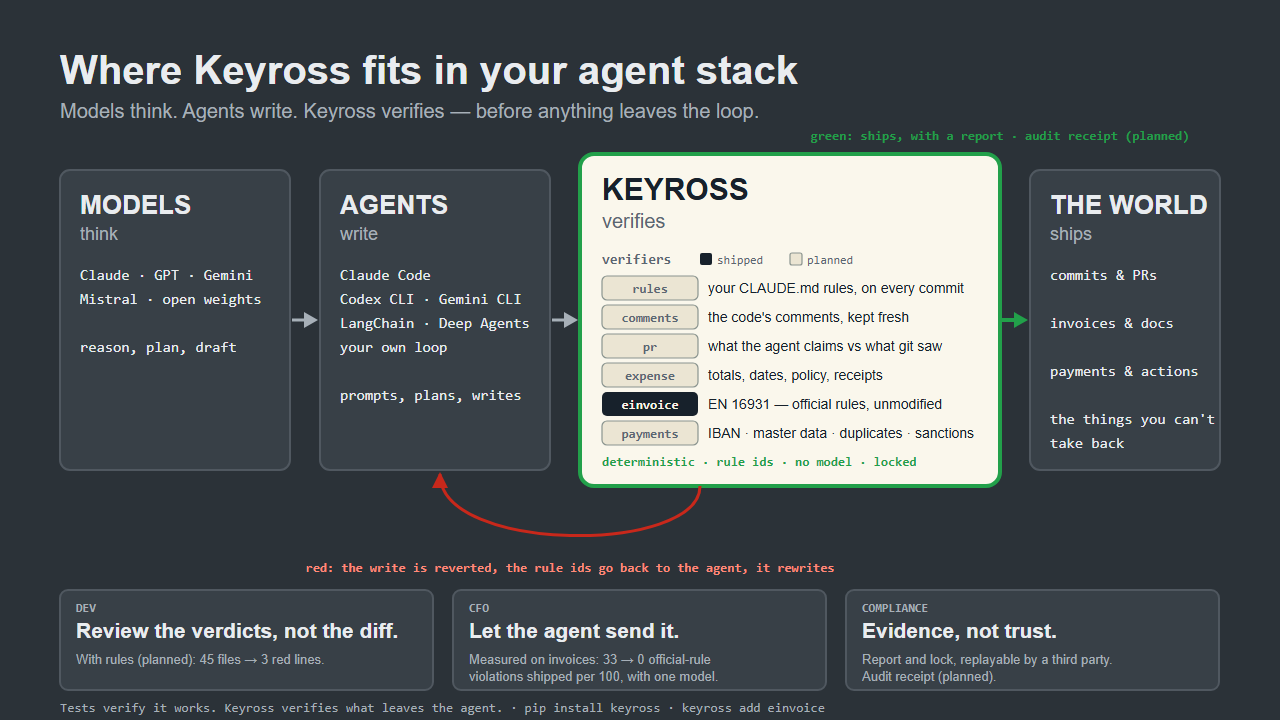
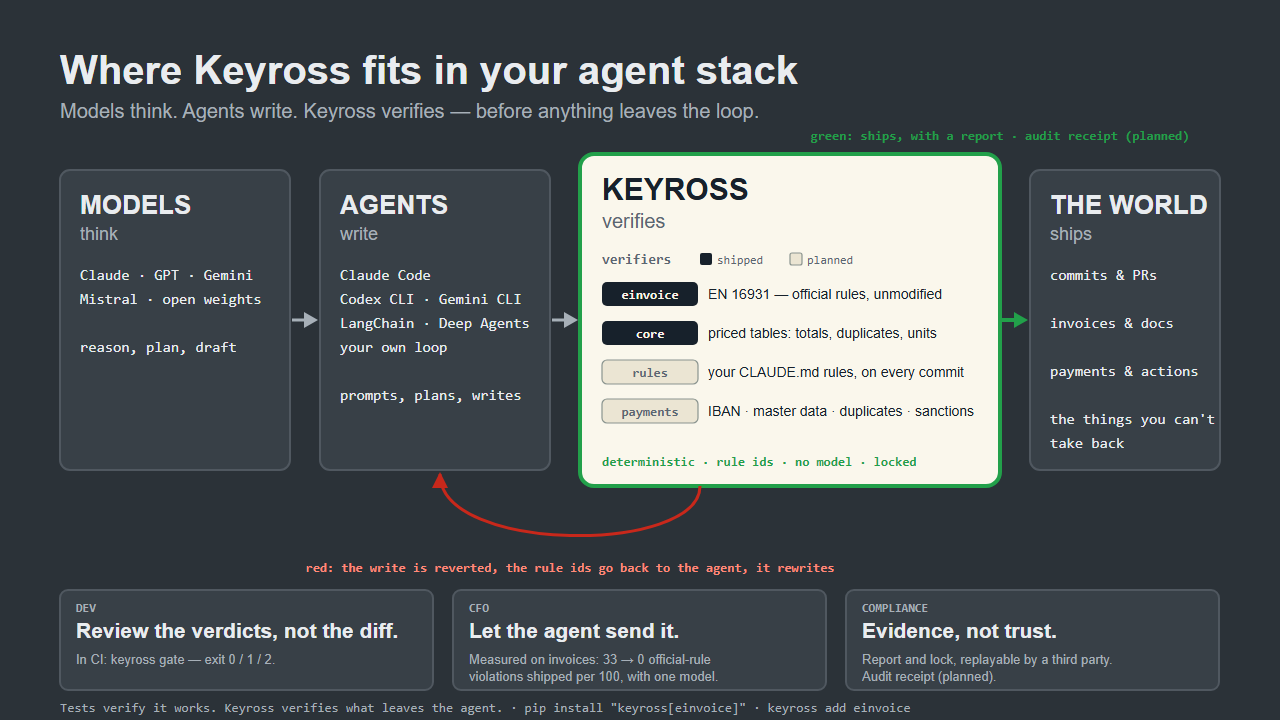
docs: one truth on the front page — the shelf, the figures, the roadmap
From a review of the 0.1.2 front page.

The stack diagram (SVG and both PNGs) shows the README's shelf: einvoice
and core shipped, rules and payments planned; comments, pr and expense,
on no roadmap, leave it. The DEV line no longer quotes a figure from a
gauge that does not exist yet (45 files, 3 red lines): it says what runs
today, keyross gate in CI. The footer installs keyross[einvoice], as the
README does.

tests/test_readme.py computes the README's benchmark table from the
published run's raw results — 33 (95 % CI 25–43) and 0 (0–4) official-rule
violations shipped, 50 and 11 shipped wrong (all 11 schema errors), 0 and
29 held, 0.025 and 0.057 USD — with the Wilson interval the benchmark's
report uses, and checks the diagram's 33 → 0. It needs no extra.

README: the test count leaves — 81 is what CI runs with every extra and
the judges; a plain install collects fewer. The 0.3 line leaves the
roadmap; "Later" says it.

Changed region(s): [[0.4688, 0.3667, 0.75, 0.6417], [0.0625, 0.8861, 0.25, 0.9472], [0.4688, 0.9778, 0.7188, 1.0]]

diff --git a/tests/test_readme.py b/tests/test_readme.py
@@ -1,0 +1,43 @@
+"""The README's first screen states what the published run's raw results give — and the stack diagram agrees.
+No extra needed: the raw results and the interval are plain Python."""
+import json
+from pathlib import Path
+
+from bench.einvoice.stats import wilson
+
+ROOT = Path(__file__).resolve().parent.parent
+RUN = ROOT / "bench" / "einvoice" / "results" / "20260923T162255Z-claude-haiku-4-5.jsonl"
+
+
+def _interval(k: int, n: int) -> str:
+    lo, hi = wilson(k, n)
+    return f"{100 * lo:.0f}–{100 * hi:.0f}"
+
+
+def test_the_readme_table_is_the_raw_results():
+    rows = [json.loads(line) for line in RUN.read_text(encoding="utf-8").splitlines() if line.strip()]
+    without = [r for r in rows if r["arm"] == "without"]
+    keyross = [r for r in rows if r["arm"] == "with_order"]       # the official rules + the order
+
+    def fatal(rs):
+        return sum(r["delivered"] and not r["valid"] for r in rs)
+
+    def wrong(rs):
+        return [r for r in rs if r["delivered"] and not r["correct"]]
+
+    def held(rs):
+        return sum(not r["delivered"] for r in rs)
+
+    def cost(rs):
+        return sum(r["cost_usd"] for r in rs) / len(rs)
+
+    readme = (ROOT / "README.md").read_text(encoding="utf-8")
+    assert len(rows) == 300 and len(without) == len(keyross) == 100 and "| per 100 invoices |" in readme
+    assert (f"| official-rule violations shipped | {fatal(without)} (95 % CI {_interval(fatal(without), 100)}) "
+            f"| **{fatal(keyross)}** ({_interval(fatal(keyross), 100)}) |") in readme
+    assert f"| shipped wrong, nobody told | {len(wrong(without))} | {len(wrong(keyross))} — all XML schema errors" in readme
+    assert all(not r["schema_valid"] for r in wrong(keyross))
+    assert f"| held for a human | {held(without)} | {held(keyross)} |" in readme
+    assert f"| cost per invoice | {cost(without):.3f} USD | {cost(keyross):.3f} USD |" in readme
+    stack = (ROOT / "docs" / "assets" / "keyross_stack.svg").read_text(encoding="utf-8")
+    assert f"{fatal(without)} → {fatal(keyross)} official-rule" in stack

diff --git a/CHANGELOG.md b/CHANGELOG.md
@@ -2,11 +2,12 @@
 
 ## Unreleased
 - planned for 0.1.2 (3 October 2026), a release of the front page, with no new gauge: a README whose first screen says what Keyross does; the repository's description and topics; one public roadmap in the README, GAUGES.md and the gauge index; the stubs moved (`action/` becomes `integrations/github-action/`, a composite action that runs `keyross gate`; `demo-k8s/` becomes `examples/k8s/`, marked planned); `docs/audit-trail.md`; GitHub Discussions with a "Wanted verifier" template
+- tests: `tests/test_readme.py` — the README's benchmark table, with the Wilson intervals the benchmark computes, and the stack diagram's 33 → 0 are the published run's raw results; it needs no extra
 - docs: the README says what Keyross is on its first screen — ready-to-use verifiers for an agent loop, where they fit in an agent stack, three commands; then the e-invoice benchmark in one table, what is shipped and what is planned, where it plugs in, one roadmap given as an order, not dates, and a link to the Wanted verifier form
 - packaging: the PyPI page says what Keyross is — the summary is the repository's description, the keywords its topics, with project links (repository, changelog, issues, benchmark, citation); the README's images and links are made absolute at build time (`hatch-fancy-pypi-readme`), so they resolve on PyPI, which they did not in 0.1.0 and 0.1.1; CITATION.cff, which Zenodo reads, carries the same abstract
 - docs and CLI: what is not built says so — ARCHITECTURE.md, the architecture diagram (PNG re-rendered), the gauge and lock specs, the yoke README and the messages of `keyross yoke claude-code`, `keyross yoke mcp` and `keyross add` mark the native hooks (Claude Code, Codex CLI, Gemini CLI) planned, the MCP server later, the seal planned (the audit receipt), signed gauges planned; `keyross add` copies packages from this repository's index in 0.2; the telemetry is JSONL, locally; the gauge spec shows the shipped `einvoice` manifest, with `keyross update` and `keyross audit` planned
 - community: GitHub Discussions open; a "Wanted verifier" form (`.github/DISCUSSION_TEMPLATE/wanted-verifier.yml`): the document, what the agent got wrong, where the truth lives, the checks, who would build it
-- docs: the stack diagram, "Where Keyross fits in your agent stack" (`docs/assets/keyross_stack.svg`, PNG 1280 × 720 and 1200 × 627): models, agents, Keyross, the world; the verifiers marked shipped (`einvoice`) or planned (`rules`, `comments`, `pr`, `expense`, `payments`); the audit receipt marked planned
+- docs: the stack diagram, "Where Keyross fits in your agent stack" (`docs/assets/keyross_stack.svg`, PNG 1280 × 720 and 1200 × 627): models, agents, Keyross, the world; the verifiers of the README's shelf, `einvoice` and `core` shipped, `rules` and `payments` planned; the audit receipt marked planned; no figure that cannot be replayed
 - docs: GAUGES.md follows the public roadmap — on the shelf `core` and `einvoice`, planned `rules` and `payments` (the same list as the registry index); where the gauges plug in today (gate, GitHub Action, the yoke) and what is planned (pre-commit, native CLI hooks, an MCP server later); the contribution ideas corrected (`einvoice.delta.order_match` shipped; `einvoice.dates.ordered` instead of a `core` oracle on tables that carry no dates)
 - docs: `docs/audit-trail.md` — what was verified and how a third party replays it: the report, the lock, the gate; a real example in `docs/audit-trail/` (an invoice the benchmark's agent delivered without the yoke, green for the official rules, red with its order; its report, its lock, the replay commands)
 - integrations: `action/` becomes `integrations/github-action/`, a composite action that installs Keyross and runs `keyross gate` on a folder; CI runs it on this repository on every commit (green on clean invoices, red on the bad set). `demo-k8s/` becomes `examples/k8s/`, marked planned, with no date

diff --git a/README.md b/README.md
@@ -99,10 +99,9 @@ Every check writes a report; the lock pins what ran; `keyross gate` replays it a
 - **0.1.3** — `rules`: your `AGENTS.md` / `CLAUDE.md` rules enforced on every commit, and the `pre-commit` hook
 - **0.1.4** — `payments` in `packages/`; the Claude Code hook
 - **0.2** — `keyross add` copies packages from this repository's index; the XML schema step in `einvoice`; native hooks for Codex CLI and Gemini CLI; a benchmark of rules across coding agents
-- **0.3** — what is really finished of the above
 - **Later** — `keyross new` (write a verifier, prove it on its bad cases), an MCP server
 
-This repository verifies itself: its CI runs 81 tests, `keyross test`, `keyross lint`, `keyross lock --check` and the GitHub Action on every commit.
+This repository verifies itself: on every commit, its CI runs the tests (one checks the table above against the benchmark's raw results), `keyross test`, `keyross lint`, `keyross lock --check` and the GitHub Action.
 
 ## Going further
 
